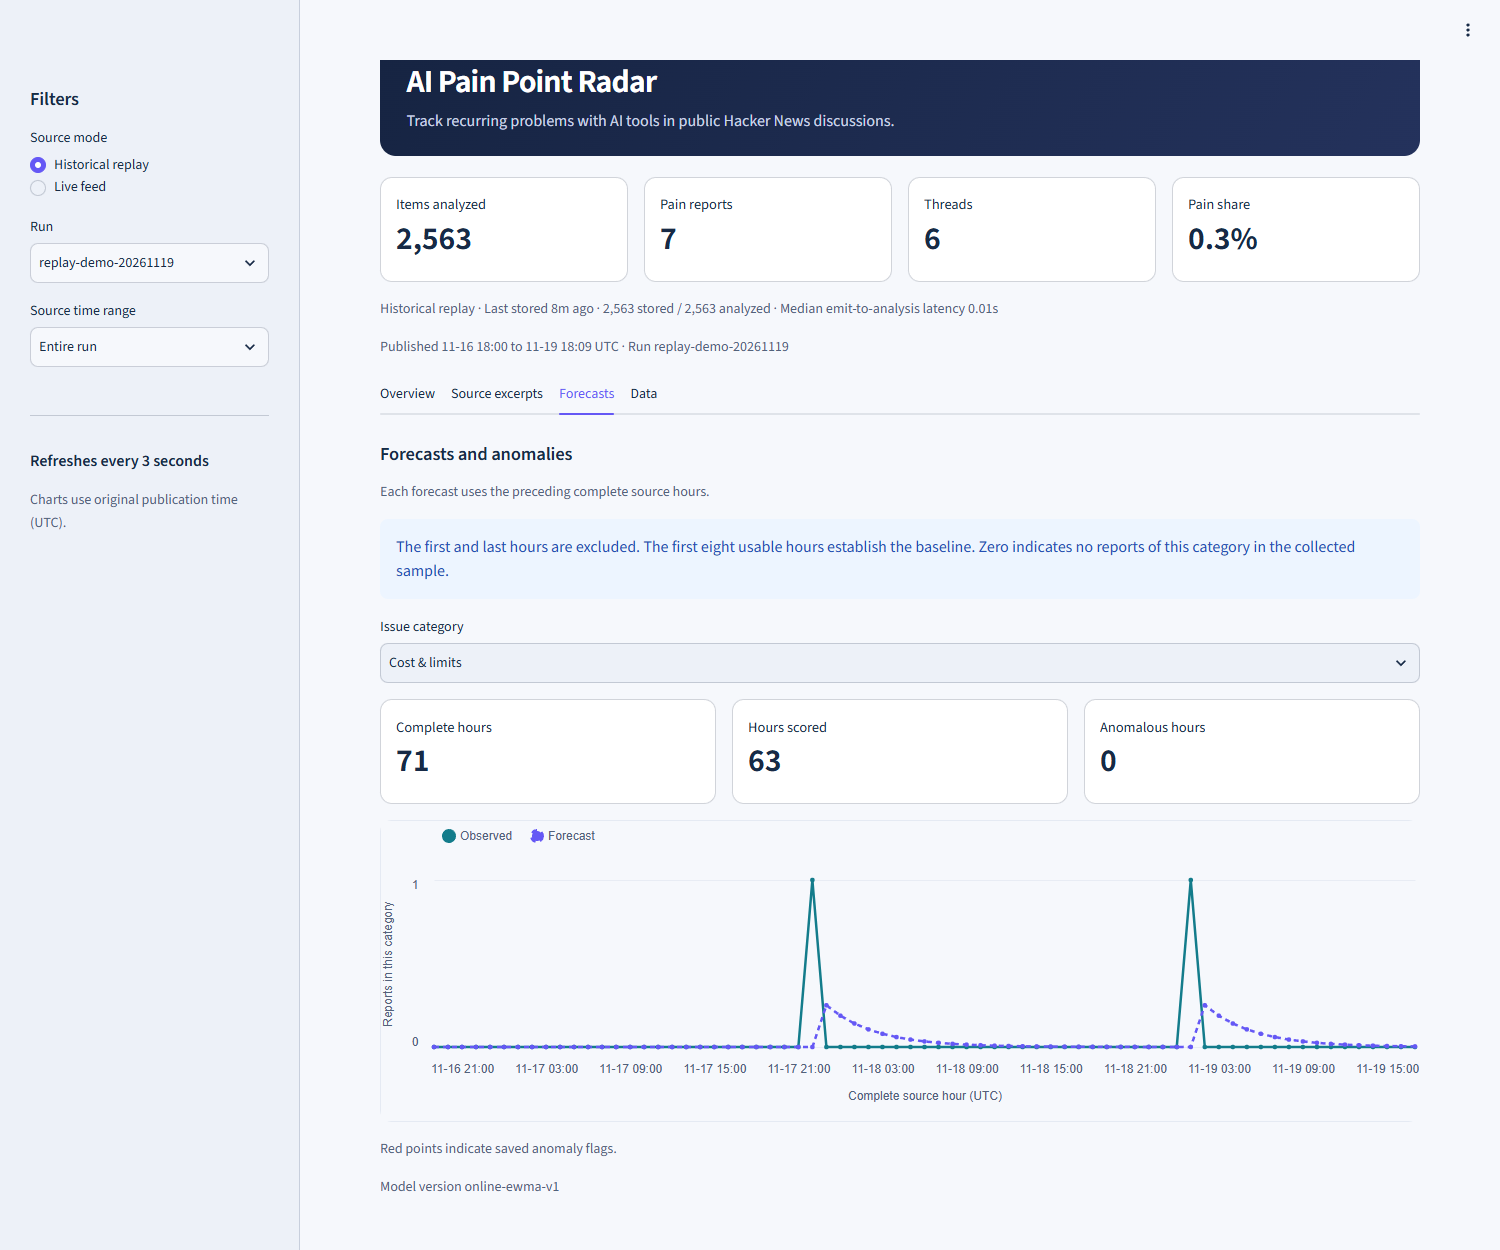
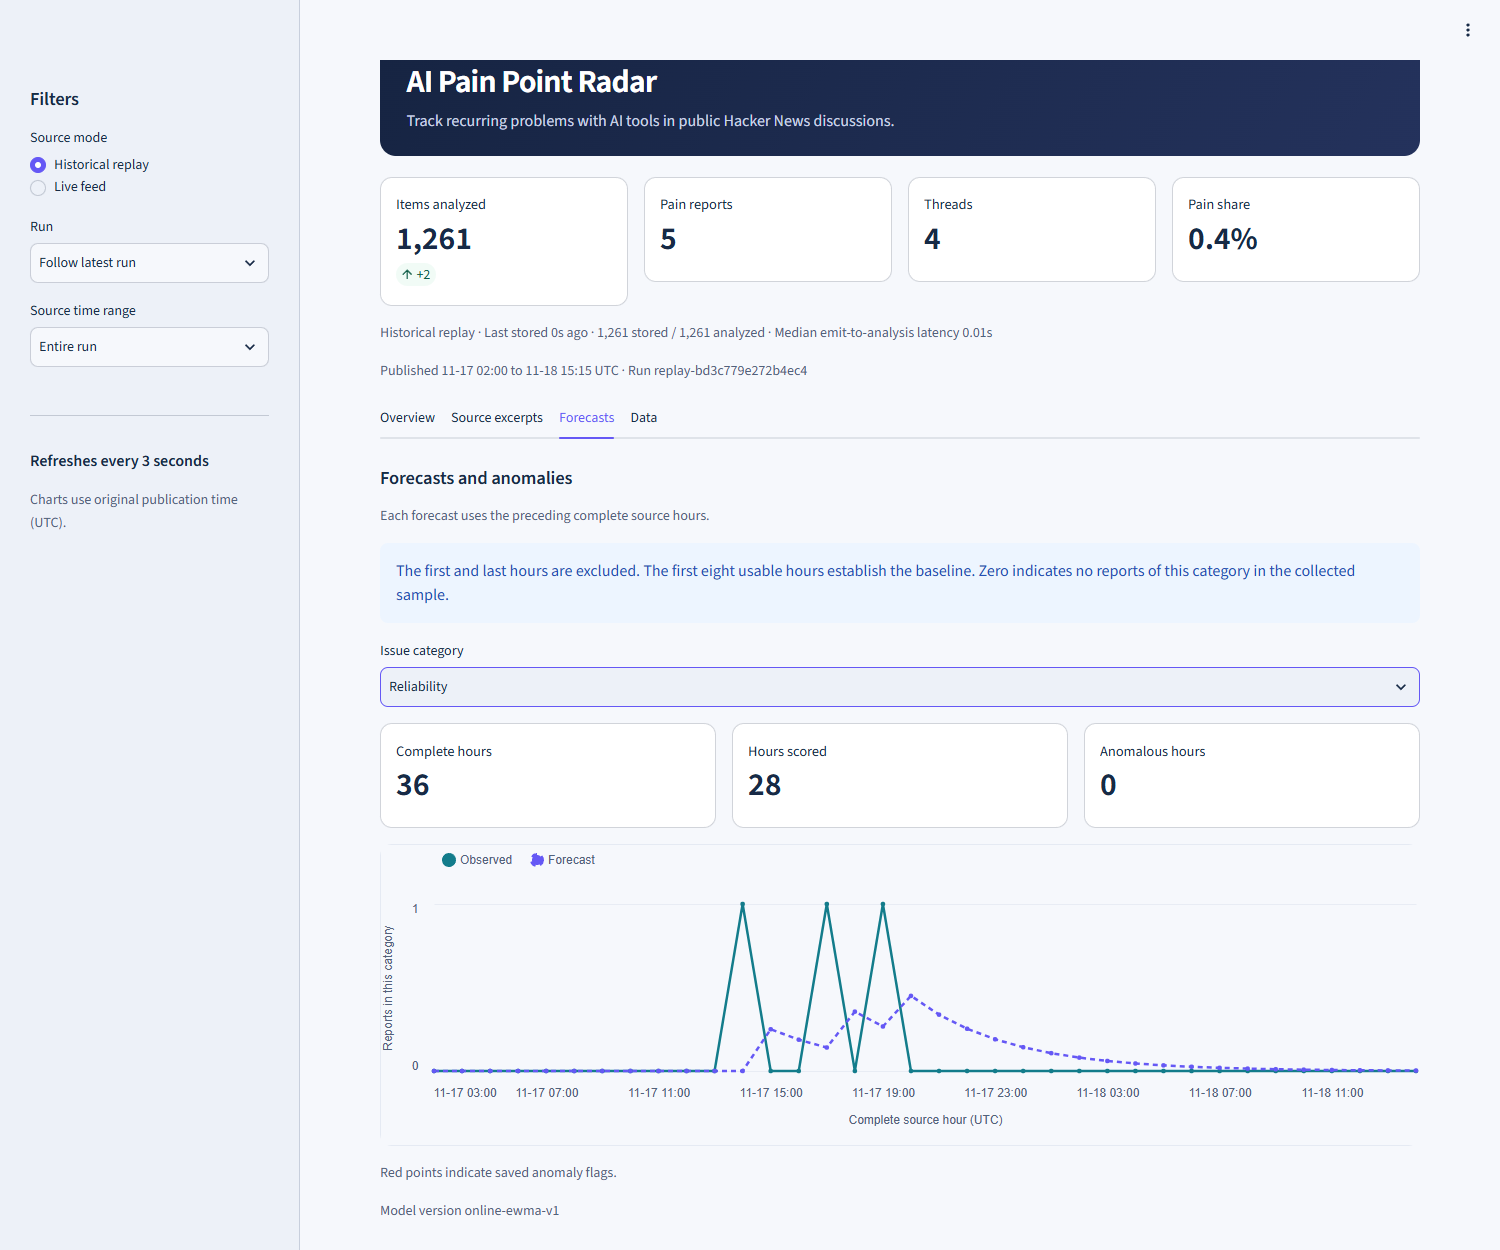
Refresh hosted verification evidence

diff --git a/README.md b/README.md
@@ -36,7 +36,9 @@ The Kafka key is `thread_id` so each story and its comments go to the same parti
 
 ## Results
 
-In a 330-second observation, raw and analyzed rows grew from **25 to 350** and hourly aggregates updated as events arrived. A complete replay analyzed **2,563** items and flagged **7** reports in **6** threads. [Stream check](evidence/stream-check.json) | [Source manifest](evidence/source-manifest.json) | [Hosted browser check](evidence/cloud-browser-check.json).
+On Google Cloud, raw and analyzed rows both grew from **823 to 1,148** in 330 seconds. Saved hourly rows increased from **138 to 210**. [Cloud stream check](evidence/cloud-stream-check.json) | [Hosted browser check](evidence/cloud-browser-check.json).
+
+An earlier complete replay analyzed **2,563** items and flagged **7** reports in **6** threads. [Source manifest](evidence/source-manifest.json).
 
 The analytics consumer saves an EWMA forecast for each category and complete source hour. Across 378 scored category-hours, forecast MAE was **0.0304** reports per hour versus **0.0317** for the previous-hour baseline. The replay had zero flagged anomalies. [Model evaluation](evidence/model-evaluation.json).
 
@@ -44,7 +46,7 @@ The analytics consumer saves an EWMA forecast for each category and complete sou
 
 ![Overview with four metrics, hourly counts, a category bar chart, and a product heatmap](evidence/screenshots/overview.png)
 
-Hourly counts, issue categories, and product breakdown from the recorded replay.
+Hourly counts, issue categories, and product breakdown on the deployed dashboard.
 
 <details>
 <summary>Source excerpts, forecasts, and mobile view</summary>
@@ -53,12 +55,12 @@ Hourly counts, issue categories, and product breakdown from the recorded replay.
 
 Source excerpts link each classification to the original discussion.
 
-![Observed and forecast hourly counts for cost and limits](evidence/screenshots/forecast.png)
+![Observed and forecast hourly counts for reliability](evidence/screenshots/forecast.png)
 
 The forecast tab shows observed counts against the saved forecast.
 
 ![Dashboard summary and hourly counts on a 390-pixel-wide screen](evidence/screenshots/mobile.png)
 
-The same replay on a phone-width screen.
+The deployed dashboard at phone width, with the sidebar collapsed by default.
 
 </details>
